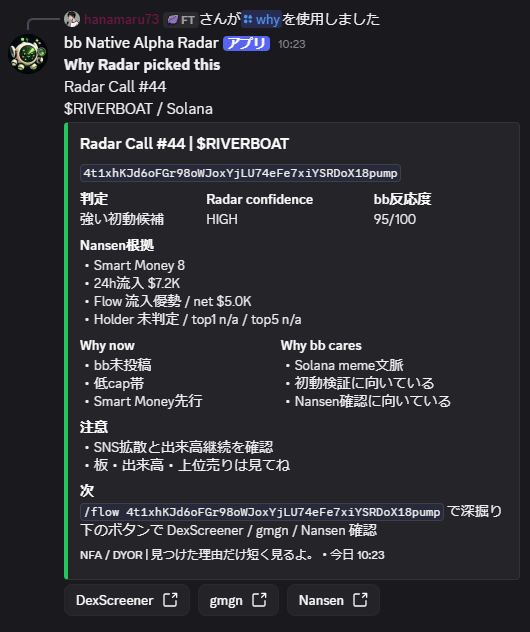
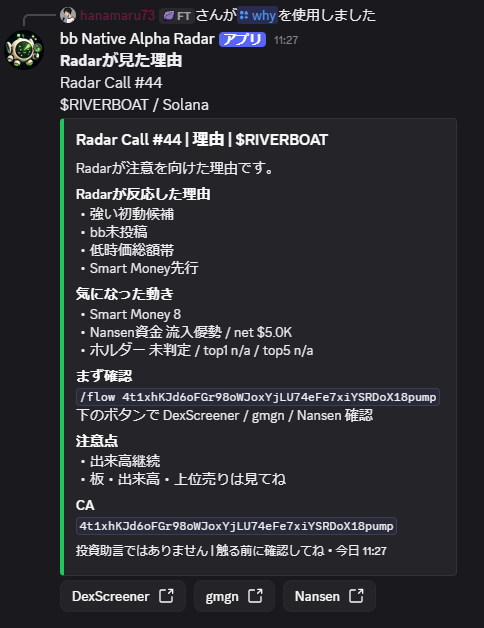
Replace why submission screenshot

Changed region(s): [[0.0, 0.0, 0.9607, 0.9076], [0.124, 0.9379, 0.7748, 0.9682]]

diff --git a/SUBMISSION_ASSET_BUNDLE.md b/SUBMISSION_ASSET_BUNDLE.md
@@ -18,7 +18,7 @@ Use it together with `SUBMISSION_FORM_DRAFT.md` and `HACKATHON_MANAGEMENT.md`.
 | - | - | - | - | - |
 | `/health` | `docs/submission-assets/01-health.png` | Mandatory | COMMITTED | Nansen CLI proof. |
 | `/radar` | `docs/submission-assets/02-radar.png` | Mandatory | COMMITTED | Best screenshot; main Radar state screen. |
-| `/why <CA>` | `docs/submission-assets/03-why.png` | Mandatory | COMMITTED | Weakest screenshot; replace if time allows because it appears English-heavy. |
+| `/why <CA>` | `docs/submission-assets/03-why.png` | Mandatory | COMMITTED | Latest Japanese-first `/why` screenshot. |
 | `/flow <CA>` | `docs/submission-assets/04-flow.png` | Mandatory | COMMITTED | Focused verification screen. |
 | `/leaderboard` | `docs/submission-assets/05-leaderboard.png` | Mandatory | COMMITTED | Strong proof screenshot. |
 | `/leaderboard` continuation | `docs/submission-assets/05b-leaderboard-continuation.png` | Optional | COMMITTED | Use only if judges need to see more leaderboard entries. |
@@ -101,11 +101,10 @@ Ready now:
 Still needed before submission:
 
 - actual form submission
-- optional fresh Japanese-first `/why` screenshot replacement
 - optional demo video URL
 - optional X / intro post URL
 
-## Screenshot Replacement Review
+## Screenshot Review
 
 Best screenshot:
 
@@ -113,12 +112,12 @@ Best screenshot:
 
 Weakest screenshot:
 
-- `03-why.png`
+- `08-report.png`
 
-Replacement recommendation:
+Current judgment:
 
-- Replace `03-why.png` before final submission if time allows. It appears to show an older English-heavy `/why` layout, while the current product direction is Japanese-first.
-- Do not redesign `/why`; only retake the screenshot from the latest running bot if replacing it.
+- `03-why.png` has been replaced with the latest Japanese-first screenshot.
+- `08-report.png` is the weakest only in the sense that it is more text-heavy than the Radar/Verify surfaces, but it still works as the final narrative screen.
 
 ## Actual Submission Checklist
 
@@ -139,9 +138,8 @@ Recommended final flow:
 
 1. Confirm `npm.cmd run check:all` passes.
 2. Confirm `.env` and `data/` are not committed.
-3. Replace `03-why.png` only if a fresh screenshot is easy to capture.
-4. Submit GitHub URL and form answers.
-5. Add demo video or X link only if already clean.
+3. Submit GitHub URL and form answers.
+4. Add demo video or X link only if already clean.
 
 ## Strongest Positioning
 

diff --git a/HACKATHON_MANAGEMENT.md b/HACKATHON_MANAGEMENT.md
@@ -78,7 +78,6 @@ Next 3 tasks:
 
 | Priority | Task | Status | Owner | Evidence required | Next action |
 | - | - | - | - | - | - |
-| P0 | Optional: replace `/why` screenshot | NEXT | User | screenshot | Replace `docs/submission-assets/03-why.png` only if a fresh Japanese-first `/why` screenshot is easy to capture. |
 | P1 | Optional: record demo video | NEXT | User | demo video | Recommended for judge clarity, but skip if time is tight. |
 | P1 | Optional: draft intro X post | NEXT | ChatGPT | GitHub URL | Optional boost only after the form is ready. |
 
@@ -235,7 +234,7 @@ DONE when:
 - `/report` screenshot exists.
 - Screenshots are Discord dark mode and CA is not the visual hero.
 
-Current status: `DONE`. Required screenshots are committed in `docs/submission-assets/`. `03-why.png` is the weakest and should be replaced only if time allows.
+Current status: `DONE`. Required screenshots are committed in `docs/submission-assets/`.
 
 ### Demo Video
 
@@ -287,7 +286,6 @@ Strongest differentiators:
 
 Weakest points before submission:
 
-- `03-why.png` appears to show an older English-heavy `/why` surface
 - demo video is not created yet
 - intro post is still optional and not drafted
 
@@ -295,7 +293,6 @@ Final recommendation:
 
 - do not change runtime code or Discord UI unless a real bug appears
 - submit with GitHub URL as the required link
-- optionally replace `03-why.png` before form submission if a fresh screenshot is easy
 - treat demo video as recommended, not blocking
 - treat X / intro post as optional, not blocking
 
@@ -317,7 +314,6 @@ Verified assets ready now:
 
 Assets still to finalize before submission:
 
-- optional fresh Japanese-first `/why` screenshot replacement
 - optional X / intro post URL
 - optional demo video URL
 
@@ -424,6 +420,7 @@ Recent evidence:
 - `3cbabc1`: final submission asset bundle doc.
 - This commit: final submission readiness review.
 - This commit: committed submission screenshots and hardened asset bundle.
+- This commit: replaced `03-why.png` with the latest Japanese-first screenshot.
 
 Latest required check:
 

diff --git a/SUBMISSION_CHECKLIST.md b/SUBMISSION_CHECKLIST.md
@@ -149,7 +149,7 @@ Screenshot rules:
 - Prefer one strong candidate over many weak candidates.
 - If no candidate passes, use the miss screen as proof of selectivity.
 - For the committed bundle, prioritize `02-radar.png`, `04-flow.png`, `05-leaderboard.png`, `06-rejections.png`, and `07-stats.png`.
-- Replace `03-why.png` only if a fresh Japanese-first `/why` screenshot is easy to capture.
+- `03-why.png` has been replaced with the latest Japanese-first `/why` screenshot.
 
 ## 7. Demo Command Order
 
@@ -261,6 +261,6 @@ Optional assets:
 Final recommendation:
 
 - Do not change runtime code or UI before submission unless a bug appears.
-- Screenshot bundle is committed; replace `03-why.png` only if a fresh Japanese-first screenshot is easy.
+- Screenshot bundle is committed in `docs/submission-assets/`.
 - Submit with GitHub URL even if intro post and demo video are not ready.
 - Record a short demo video only if the screenshot bundle is clean and time remains.

diff --git a/docs/submission-assets/README.md b/docs/submission-assets/README.md
@@ -21,6 +21,6 @@ These are the committed Discord dark mode screenshots for hackathon submission.
 
 - Best screenshot: `02-radar.png`
 - Strong proof screenshot: `05-leaderboard.png`
-- Weakest screenshot: `03-why.png`
+- Weakest screenshot: `08-report.png`
 
-`03-why.png` is included so the package is self-contained, but it appears to show an older English-heavy `/why` surface. Replace it with a fresh Japanese-first `/why` screenshot before final submission if time allows.
+`03-why.png` has been replaced with the latest Japanese-first `/why` screenshot. `08-report.png` is now the weakest only because it is the most text-heavy card in the bundle.
